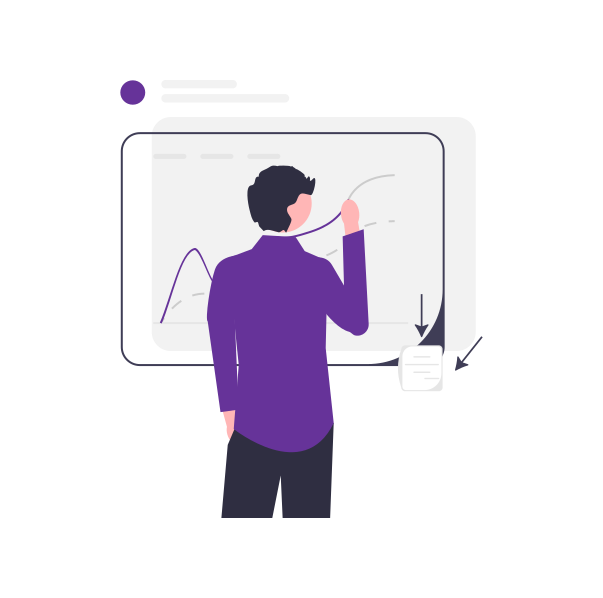
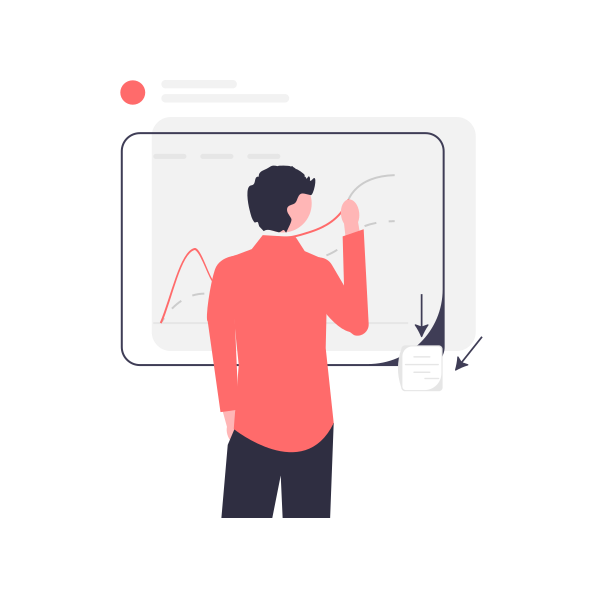
Adicionando e padronizando componentes

diff --git a/pages/Login.js b/pages/Login.js
@@ -1,0 +1,80 @@
+import {View, Image, StyleSheet, } from "react-native";
+import { ReferenciaImagens } from "../assets/ReferenciasImagens";
+import { Cores } from "../colors/Cores";
+import TituloAnimado from "../components/TituloAnimado";
+import CampoDeTexto from "../components/CampoDeTexto";
+import Botao from "../components/Botao";
+
+export default function Login() {
+  return (
+      <View style={styles.container}>
+
+        <TituloAnimado/>
+
+        <Image source={ReferenciaImagens.login} style={styles.image}/>
+
+        <View style={styles.camposInteragiveis}>
+
+          <CampoDeTexto
+            placeholder="Digite seu email"
+            nomeInput="Email"
+          />
+
+          <CampoDeTexto
+            placeholder="Digite sua senha"
+            nomeInput="Senha"
+            campoDeSenha={true}
+          />
+
+          <Botao
+            titulo={"Login"}
+            corFundoProp={Cores.padroes.vermelho}
+            exibeFundo={true}
+          />
+
+          <Botao
+            titulo={"Crie sua conta"}
+            corTextoProp={Cores.padroes.preto}
+            ajustaAoTexto={true}
+          />
+
+        </View>
+    </View>
+  );
+}
+
+const styles = StyleSheet.create({
+    container: {
+      paddingHorizontal: 20,
+      paddingVertical: 5,
+    },
+    containerTitulo: {
+      alignSelf: 'center',
+      alignItems: 'center',
+      marginBottom: 20,
+    },
+    titulo: {
+      fontSize: 64,
+      fontWeight: "bold",
+      textAlign: 'center',
+    },
+    subtitulo: {
+      fontSize: 36,
+      color: "#38434D",
+      textAlign: 'center',
+    },
+    image: {
+        width: 400,
+        height: 300,
+        resizeMode: 'contain',
+    },
+    camposInteragiveis: {
+      width: 400,
+    },
+    crieSuaContaTexto : {
+      width: '100%',
+      textAlign: 'center',
+      fontSize: 18,
+      color: Cores.padroes.preto,
+    },
+    });

diff --git a/components/TituloAnimado.js b/components/TituloAnimado.js
@@ -1,0 +1,54 @@
+import React, { useEffect, useRef } from "react";
+import { StyleSheet, View, Text, Animated } from "react-native";
+
+export default function TituloAnimado() {
+  const tituloAnim = useRef(new Animated.Value(500)).current; 
+  const subtituloAnim = useRef(new Animated.Value(500)).current;
+
+  useEffect(() => {
+    Animated.sequence([
+      Animated.timing(tituloAnim, {
+        toValue: 0,
+        duration: 500,
+        useNativeDriver: true,
+      }),
+      Animated.timing(subtituloAnim, {
+        toValue: 0,
+        duration: 500,
+        useNativeDriver: true,
+      }),
+    ]).start();
+  }, []);
+
+  return (
+    <View style={styles.container}>
+      <Animated.View style={[styles.containerTitulo, { transform: [{ translateX: tituloAnim }] }]}>
+        <Text style={styles.titulo}>Bem vindo</Text>
+      </Animated.View>
+      <Animated.View style={[styles.containerTitulo, { transform: [{ translateX: subtituloAnim }] }]}>
+        <Text style={styles.subtitulo}>Off-Project</Text>
+      </Animated.View>
+    </View>
+  );
+}
+
+const styles = StyleSheet.create({
+  container: {
+    justifyContent: "center",
+    alignItems: "center",
+    backgroundColor: "#fff",
+  },
+  containerTitulo: {
+    marginVertical: 10,
+  },
+  titulo: {
+    fontSize: 62,
+    fontWeight: "bold",
+    textAlign: "center",
+  },
+  subtitulo: {
+    fontSize: 32,
+    color: "#38434D",
+    textAlign: "center",
+  },
+});

diff --git a/components/Botao.js b/components/Botao.js
@@ -1,12 +1,23 @@
 import React from 'react';
 import { View, Text, TouchableOpacity, StyleSheet } from 'react-native';
 
-export default function Botao({ acao, titulo }) {
+export default function Botao({ acao, titulo, corFundoProp, exibeFundo, corTextoProp, ajustaAoTexto }) {
+
+  const corFundo = exibeFundo ? corFundoProp : 'transparent'
+  const corTexto = corTextoProp ?? 'white'
+
+  //chave alignSelf para ser lida como css
+  const alignSelf = ajustaAoTexto ? 'flex-start' : '';
+
   return (
     <View style={styles.containerBotao}>
-      <TouchableOpacity style={styles.button} onPress={acao}>
-        <Text style={styles.buttonText}>{titulo || 'Login'}</Text>
+      
+     <TouchableOpacity 
+        style={[styles.botao, { backgroundColor: corFundo, alignSelf }]} 
+        onPress={acao}>
+        <Text style={[styles.textoBotao, {color: corTexto}]}>{titulo}</Text>
       </TouchableOpacity>
+
     </View>
   );
 }
@@ -17,16 +28,14 @@ const styles = StyleSheet.create({
     paddingHorizontal: 20, 
     alignSelf: 'center',
   },
-  button: {
-    backgroundColor: '#6F6F6F', 
+  botao: {
     marginVertical: 8,
     paddingVertical: 10, 
     borderRadius: 8, 
     alignItems: 'center',
   },
-  buttonText: {
-    color: '#fff', 
-    fontSize: 16,
+  textoBotao: {
+    fontSize: 18,
     fontWeight: 'bold',
   },
 });

diff --git a/components/CampoDeTexto.js b/components/CampoDeTexto.js
@@ -7,13 +7,15 @@ export default function CampoDeTexto( { nomeInput, placeholder, campoDeSenha } )
   return (
     <View style={styles.container}>
       <Text style={styles.nomeInput}>{nomeInput || 'Label padrão'}</Text>
+
       <TextInput
         style={styles.input}
         placeholder={placeholder || 'Digite algo...'}
-        secureTextEntry={campoDeSenha || false}
+        secureTextEntry={campoDeSenha}
         value={text}
         onChangeText={setText} 
       />
+      
     </View>
   );
 }

diff --git a/app/index.tsx b/app/index.tsx
@@ -1,10 +1,10 @@
 import { StyleSheet, View } from "react-native";
-import Login from "../components/Login";
+import Login from "../pages/Login";
 
 export default function Page() {
   return (
     <View style={styles.container}>
-      <Login></Login>
+      <Login/>
     </View>
   );
 }

diff --git a/colors/Cores.js b/colors/Cores.js
@@ -1,0 +1,9 @@
+export const Cores = {
+  padroes: {
+    azulClaro: '#A9CEF4',
+    verdeEscuro: '#69995D',
+    preto: '#1D201F',      
+    vermelho: '#FF6B6B',   
+    roxoEscuro: '#413C58',
+  },
+};

diff --git a/assets/ReferenciasImagens.js b/assets/ReferenciasImagens.js
@@ -1,0 +1,4 @@
+export const ReferenciaImagens = { 
+    login: require('./login-image.png'),
+
+}
